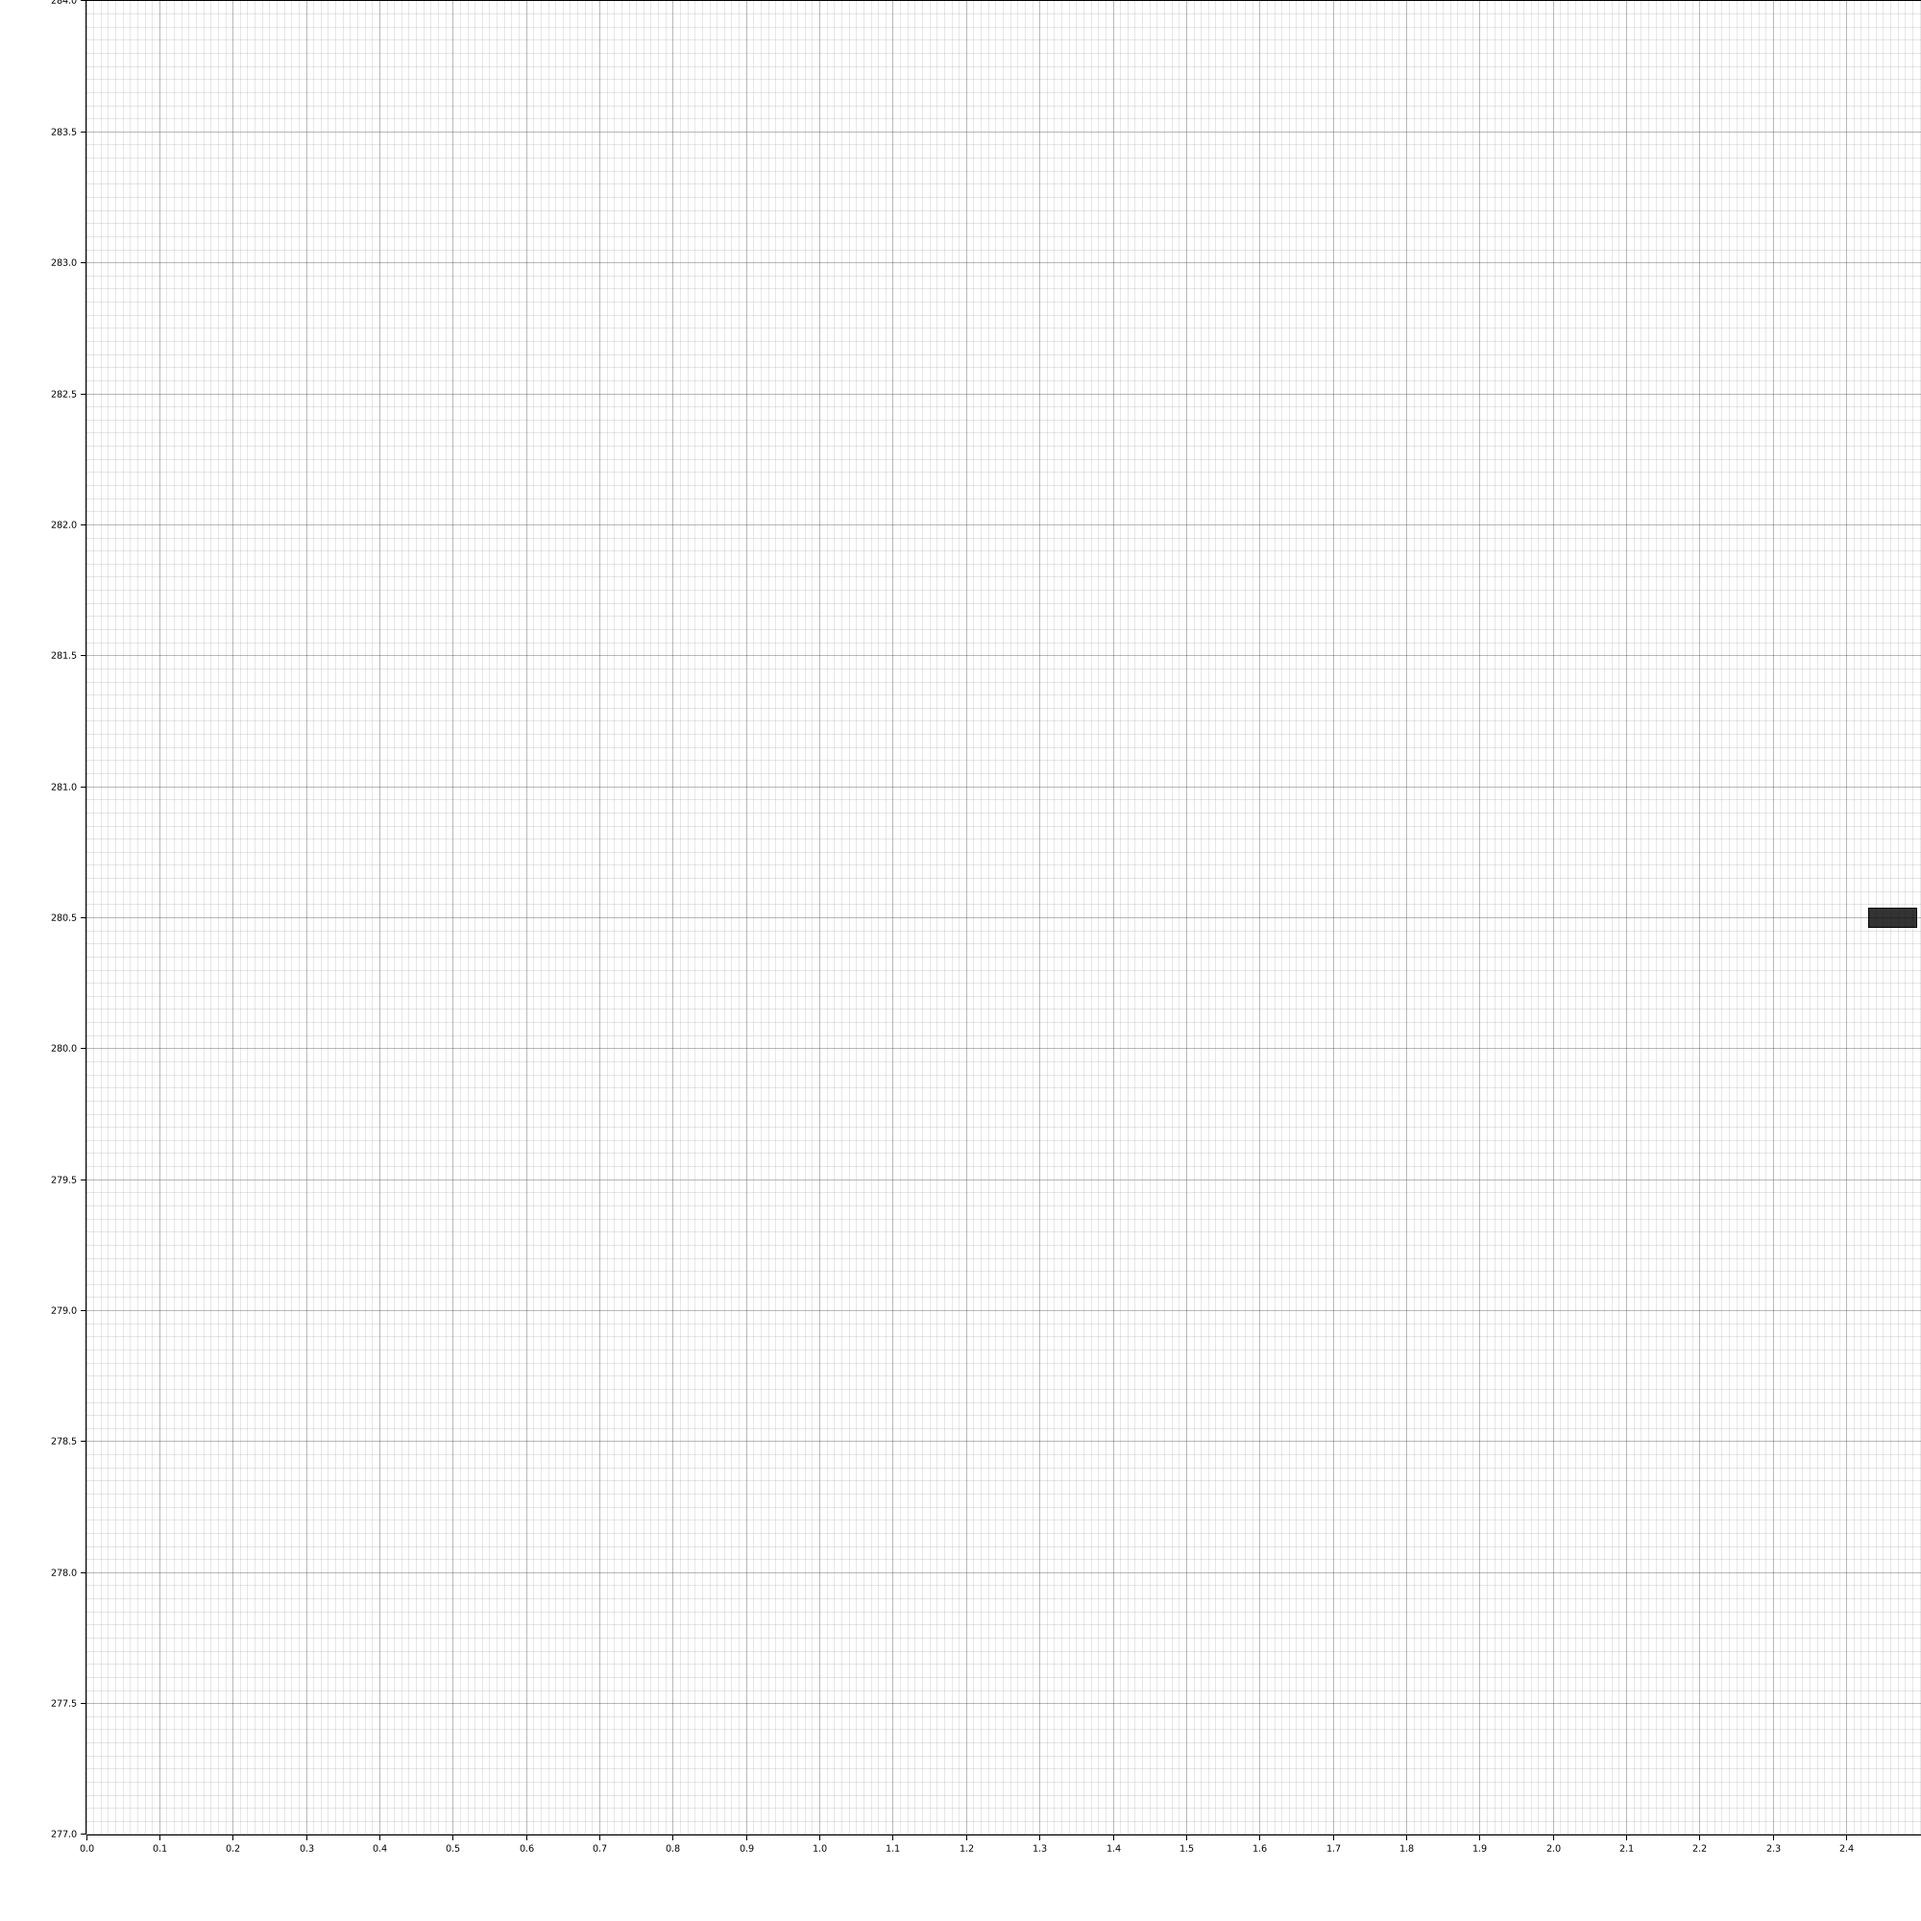
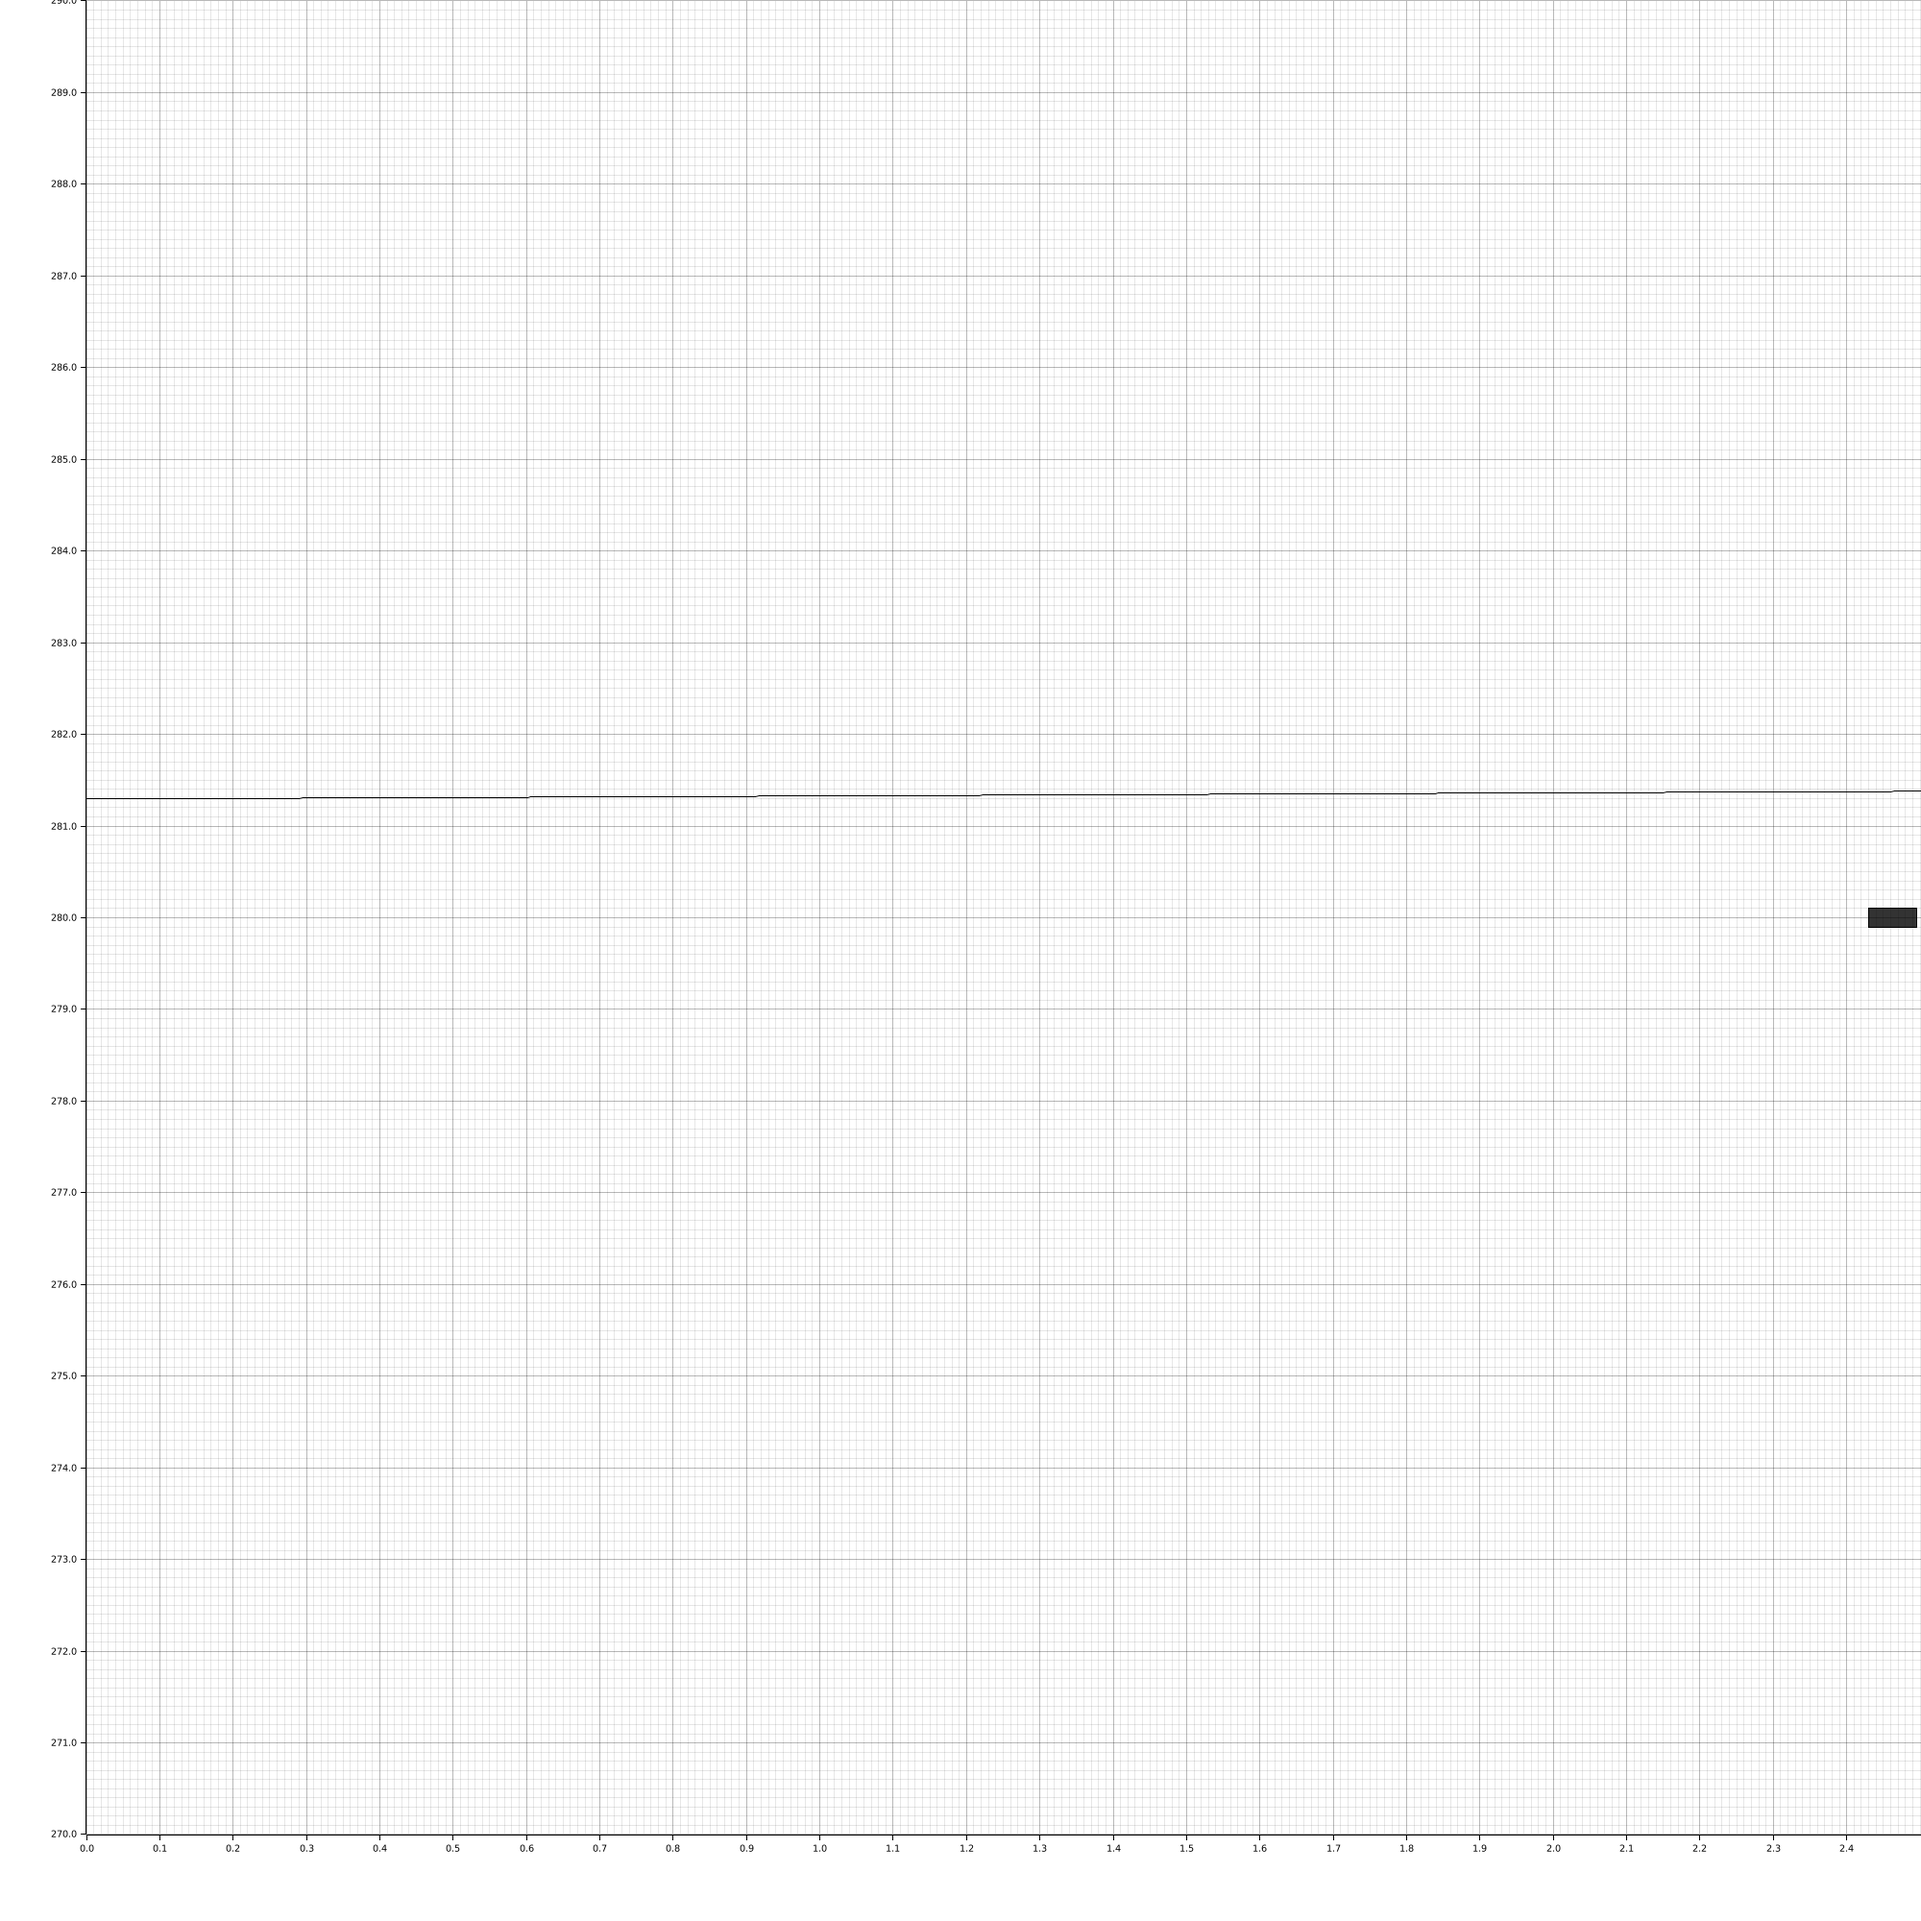
fixed apparent longitude.

Changed region(s): [[0.031, 0.0, 1.0, 0.961]]

diff --git a/src/main.rs b/src/main.rs
@@ -45,7 +45,7 @@ fn main() -> Result<(), Box<dyn std::error::Error>> {
     let mut chart = ChartBuilder::on(&root)
         .x_label_area_size(90)
         .y_label_area_size(90)
-        .build_cartesian_2d(0f64..2.5f64, 277f64..284f64)?;
+        .build_cartesian_2d(0f64..2.5f64, 270f64..290f64)?;
 
     chart
         .configure_mesh()
@@ -133,13 +133,12 @@ let sun_center:f64 = (geo_mean_anom.to_radians().sin() //works
 
 let sun_true_long:f64 = &geo_mean_long + &sun_center; //works
 
-// =M2-0.00569-0.00478*SIN(RADIANS(125.04-1934.136*G2));
 
-let sun_app_long:f64 = (sun_true_long - 0.00569 - 0.00478 
-    * (125.04-(1934.136*jul_century.to_f64().unwrap()))).to_radians().sin();
+let sun_app_long:f64 = sun_true_long - 0.00569 - 0.00478 * 
+125.04 - (1934.136 * (jul_century.to_f64().unwrap())).to_radians().sin(); //works
 
 
-let mean_eclip_obliq:f64 = 23.0 +
+let mean_eclip_obliq:f64 = 23.0 + //works
     (26.0 +
         (
             (21.448-jul_century.to_f64().unwrap()*(
@@ -153,7 +152,7 @@ let mean_eclip_obliq:f64 = 23.0 +
 )
     /60.0;
 
-let obliq_corr:f64 = mean_eclip_obliq + 
+let obliq_corr:f64 = mean_eclip_obliq + //works
     0.00256*(
         125.04-1934.136*jul_century
         .to_f64()
@@ -161,12 +160,6 @@ let obliq_corr:f64 = mean_eclip_obliq +
     )
     .to_radians()
     .cos();
-
-let sun_app_long:f64 = (sun_true_long-0.00569-0.00478*(
-        125.04-1934.136*jul_century.to_f64().unwrap())
-    .to_radians()
-    .sin())
-    .to_degrees();
 
 
 let sun_declin:f64 = ((obliq_corr.to_radians().sin()) * 
